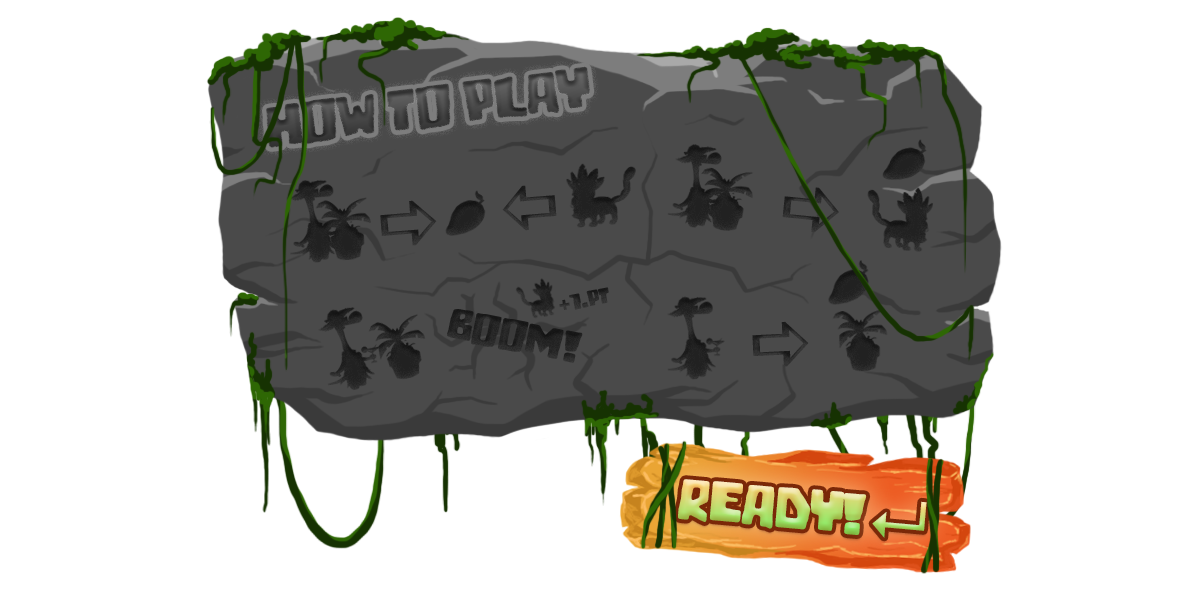
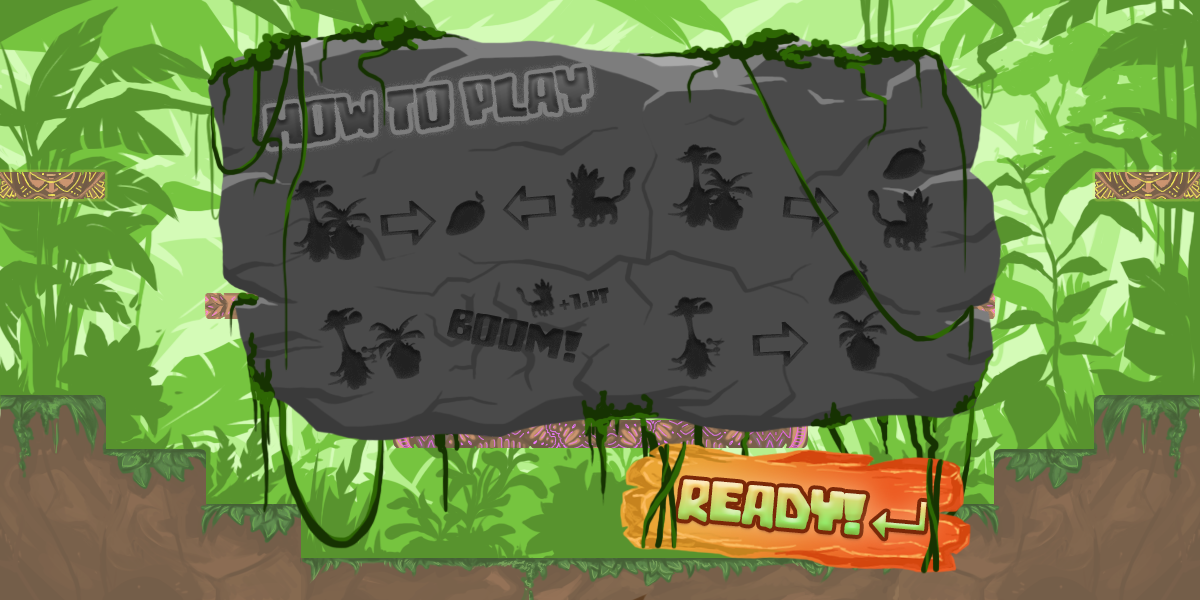
How to play scene updated

diff --git a/MangoMambo/Development/players/character.js b/MangoMambo/Development/players/character.js
@@ -15,7 +15,6 @@ class Character extends Phaser.GameObjects.Sprite{
         this.x = x;
         this.y = y;
         this.score = score;
-        this.anim;
 
         this.cursors;// 0 arriba, 1 izquierda, 2 abajo, 3 derecha, movimiento
         // Se añade a la escena al hacer el new
@@ -60,12 +59,6 @@ class Character extends Phaser.GameObjects.Sprite{
         this.cursors4[1] = this.scene.input.keyboard.addKey(Phaser.Input.Keyboard.KeyCodes.NUMPAD_4);
         this.cursors4[2] = this.scene.input.keyboard.addKey(Phaser.Input.Keyboard.KeyCodes.NUMPAD_5);
         this.cursors4[3] = this.scene.input.keyboard.addKey(Phaser.Input.Keyboard.KeyCodes.NUMPAD_6);
-
-        this.scene.load.spritesheet('dino_move', '../Design/Characters/Dino/dino_walk.png',
-        {
-            frameWidth: 80,
-            frameHeight: 80 
-        });
 
         switch (this.id){
             case 1:
@@ -169,15 +162,7 @@ class Character extends Phaser.GameObjects.Sprite{
                 this.jumpHeight = 0;
                 this.fallSpeed = 0;
                 break;
-        }
-
-        this.anims.create({
-            key: 'dino_walk',
-            frames: this.scene.anims.generateFrameNumbers('dino_move', { start: 0, end: 7 }),
-            frameRate: 9,
-            repeat: -1
-        });
-        
+        }        
 
         this.body.setSize(this.colliderSize[0], this.colliderSize[1]); // Para cambiar el collider
         this.body.maxVelocity.x = this.maxVelocity;
@@ -202,8 +187,6 @@ class Character extends Phaser.GameObjects.Sprite{
             }else{
                 this.body.setAccelerationX(this.acceleration);
             }
-            //this.anims.play('dino_walk', true);
-            console.log(this);
             this.flipX = false;
         }
         else {

diff --git a/MangoMambo/Development/scenes/how_to_play_scene_1.js b/MangoMambo/Development/scenes/how_to_play_scene_1.js
@@ -1,0 +1,40 @@
+class HowToPlay extends Phaser.Scene {
+    constructor(){
+        super({key: "how_to_play"});
+       
+    }// Fin constructor
+
+    init(data){
+        this.characters = data;
+    }
+
+    preload(){
+
+        // Cargar imágenes
+        this.load.image("lvl_1_background", "./Design/Stages/Backgrounds/lvl_1_background.png");
+        this.load.image("how_to_play_scene", "./Design/Stages/Backgrounds/how_to_play_scene.png");
+
+    }// Fin preload
+
+    create(){
+
+        // Fondo
+        this.background = this.add.image(0, 0, "lvl_1_background").setOrigin(0,0).setDepth(0);
+        // Dibujo de how to play
+        this.howToPlayButton = this.add.image(600, 300, "how_to_play_scene").setDepth(1);
+
+        // Tecla
+        this.enterKey = this.input.keyboard.addKey(Phaser.Input.Keyboard.KeyCodes.ENTER);
+
+    }// Fin create
+
+    update(time, delta){
+
+        //Cambio de pantalla
+        if(this.enterKey.isDown){
+            this.scene.start("level_1", {characters: this.characters});
+        }
+
+    }// Fin update
+
+}// Fin clase

diff --git a/MangoMambo/index.html b/MangoMambo/index.html
@@ -16,6 +16,7 @@
     <script src="./Development/scenes/score_level.js"></script>
     <script src="./Development/scenes/credits.js"></script>
     <script src="./Development/scenes/pause.js"></script>
+    <script src="./Development/scenes/how_to_play_scene_1.js"></script>
     <script src="./Development/players/mango.js"></script>
     <script src="./Development/players/character.js"></script>
     <script src="./Development/src/init.js"></script>

diff --git a/MangoMambo/Development/scenes/choose_character.js b/MangoMambo/Development/scenes/choose_character.js
@@ -439,7 +439,7 @@ class ChooseCharacter extends Phaser.Scene {
                         this.characters.splice(i,1);
                     }
                 }
-                this.scene.start("level_1", {characters: this.characters});
+                this.scene.start("how_to_play", {characters: this.characters});
                 // Se para la música
                 this.loop.stop();
             }

diff --git a/MangoMambo/Development/src/init.js b/MangoMambo/Development/src/init.js
@@ -16,7 +16,8 @@ var config = {
         Level1,
         ScoreLevel,
         Options,
-        Credits
+        Credits,
+        HowToPlay
     ]
 };
 
